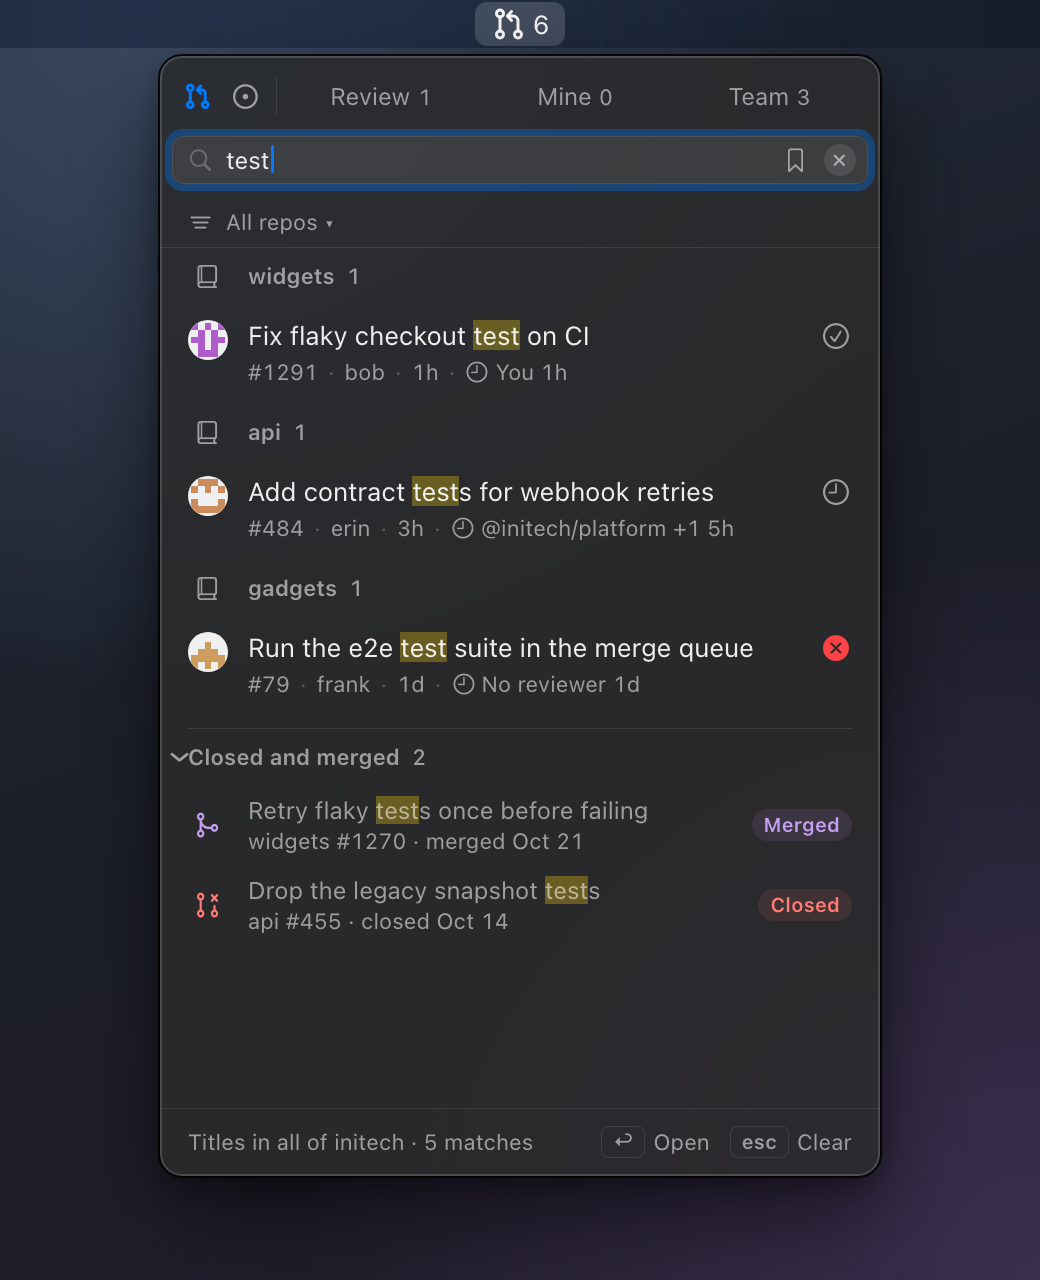
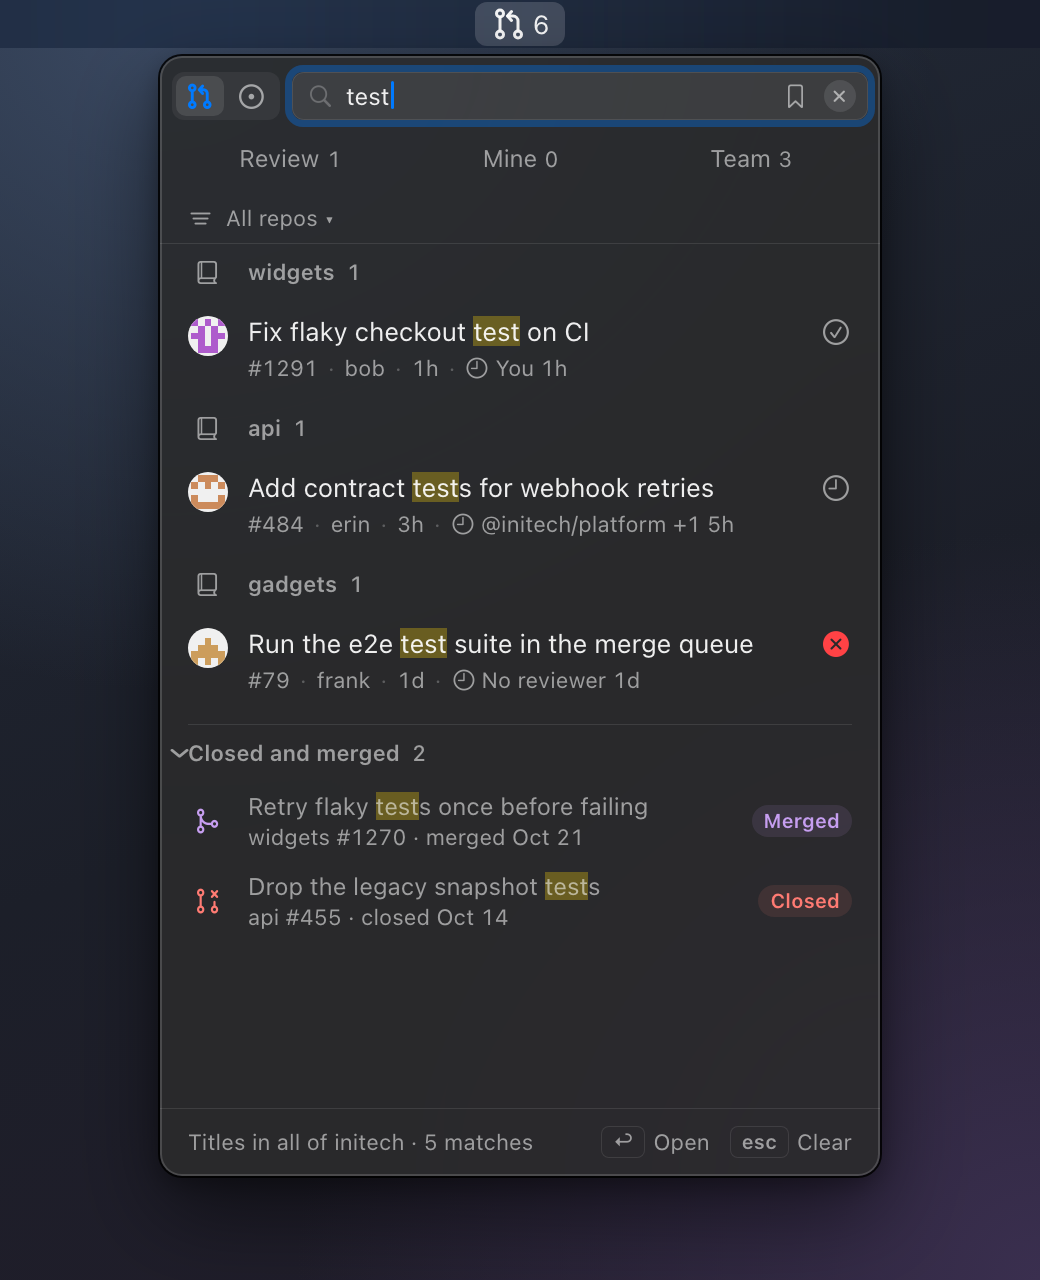
Show the mode switch in the search row in the README stills

diff --git a/docs/media/src/components.js b/docs/media/src/components.js
@@ -75,7 +75,7 @@
       const selected = mode === m;
       return `<span class="mode-button${selected ? " selected" : ""}">${sym(symbol, 13, selected ? "semibold" : "regular")}</span>`;
     };
-    return `<div class="hstack mode-toggle">${btn("pullRequests", "pullbull.pullrequest")}${btn("issues", "pullbull.issue")}<span class="hairline-v"></span></div>`;
+    return `<div class="hstack mode-toggle">${btn("pullRequests", "pullbull.pullrequest")}${btn("issues", "pullbull.issue")}</div>`;
   }
 
   function tabBar(tabs, selectedId) {
@@ -100,12 +100,13 @@
       ? `<span class="c-secondary" style="width:16px;height:16px;display:flex;align-items:center;justify-content:center">${sym("bookmark", 11)}</span>` +
         `<span class="c-secondary" style="width:16px;height:16px;border-radius:50%;background:var(--strong-fill);display:flex;align-items:center;justify-content:center">${sym("xmark", 7, "bold")}</span>`
       : (search && search.focused ? "" : `<span class="shortcut f11">⌘F</span>`);
-    return `<div class="search-row"><div class="hstack search-field${search && search.focused ? " focused" : ""}">` +
-      `<span class="c-tertiary hstack">${sym("magnifyingglass", 11)}</span>${text}${trailing}</div></div>`;
+    return `<div class="hstack search-field${search && search.focused ? " focused" : ""}">` +
+      `<span class="c-tertiary hstack">${sym("magnifyingglass", 11)}</span>${text}${trailing}</div>`;
   }
 
   function header(d) {
-    return `<div class="hstack title-row">${modeToggle(d.mode)}${tabBar(d.tabs, d.selectedTab)}</div>${searchField(d.search, d.mode)}`;
+    return `<div class="search-row">${modeToggle(d.mode)}${searchField(d.search, d.mode)}</div>` +
+      `<div class="tab-row">${tabBar(d.tabs, d.selectedTab)}</div>`;
   }
 
   /** FilterBar: "▦ Roadmap ▾ · ▤ All repos ▾" on the Board tab, "▤ All repos ▾" elsewhere. */

diff --git a/docs/media/src/popover.css b/docs/media/src/popover.css
@@ -222,13 +222,13 @@ body {
 
 /* ---------- Header (HeaderView) ---------- */
 
-.title-row { height: 40px; padding: 0 8px; gap: 4px; flex: none; }
+/* The mode's tabs, under the search row: inset 8, 4 below. */
+.tab-row { padding: 0 8px 4px; display: flex; flex: none; }
 
-/* ModeToggle: two 22×28 buttons, 2 apart, then a hairline 18 tall with 2 before it. */
-.mode-toggle { gap: 2px; flex: none; }
-.mode-button { width: 22px; height: 28px; display: flex; align-items: center; justify-content: center; color: var(--secondary); border-radius: 6px; }
-.mode-button.selected { color: var(--accent); }
-.mode-toggle .hairline-v { height: 18px; margin-left: 2px; }
+/* ModeToggle: two 24×20 segments, 2 apart, on a 24-tall track padded 2. */
+.mode-toggle { gap: 2px; flex: none; padding: 2px; border-radius: 6px; background: var(--fill); }
+.mode-button { width: 24px; height: 20px; display: flex; align-items: center; justify-content: center; color: var(--secondary); border-radius: 5px; }
+.mode-button.selected { color: var(--accent); background: var(--strong-fill); }
 
 /* TabBar: equal segments 2 apart, 22 tall, inside 2 pt of vertical padding. */
 .tab-bar { flex: 1 1 auto; padding: 2px 0; display: flex; gap: 2px; }
@@ -255,9 +255,11 @@ body {
 .segment .count { color: var(--secondary-text); }
 .segment.selected .count { color: var(--label); }
 
-/* Search field: 24 tall, inset 6 (Metrics.rowInset), 6 below. */
-.search-row { padding: 0 6px 6px; flex: none; }
+/* Search row: the mode switch, 6 apart from the field; 24 tall, inset 6 (Metrics.rowInset), 8 above, 6 below. */
+.search-row { padding: 8px 6px 6px; flex: none; display: flex; gap: 6px; align-items: center; }
 .search-field {
+  flex: 1 1 auto;
+  min-width: 0;
   position: relative;
   height: 24px;
   padding: 0 6px 0 8px;
